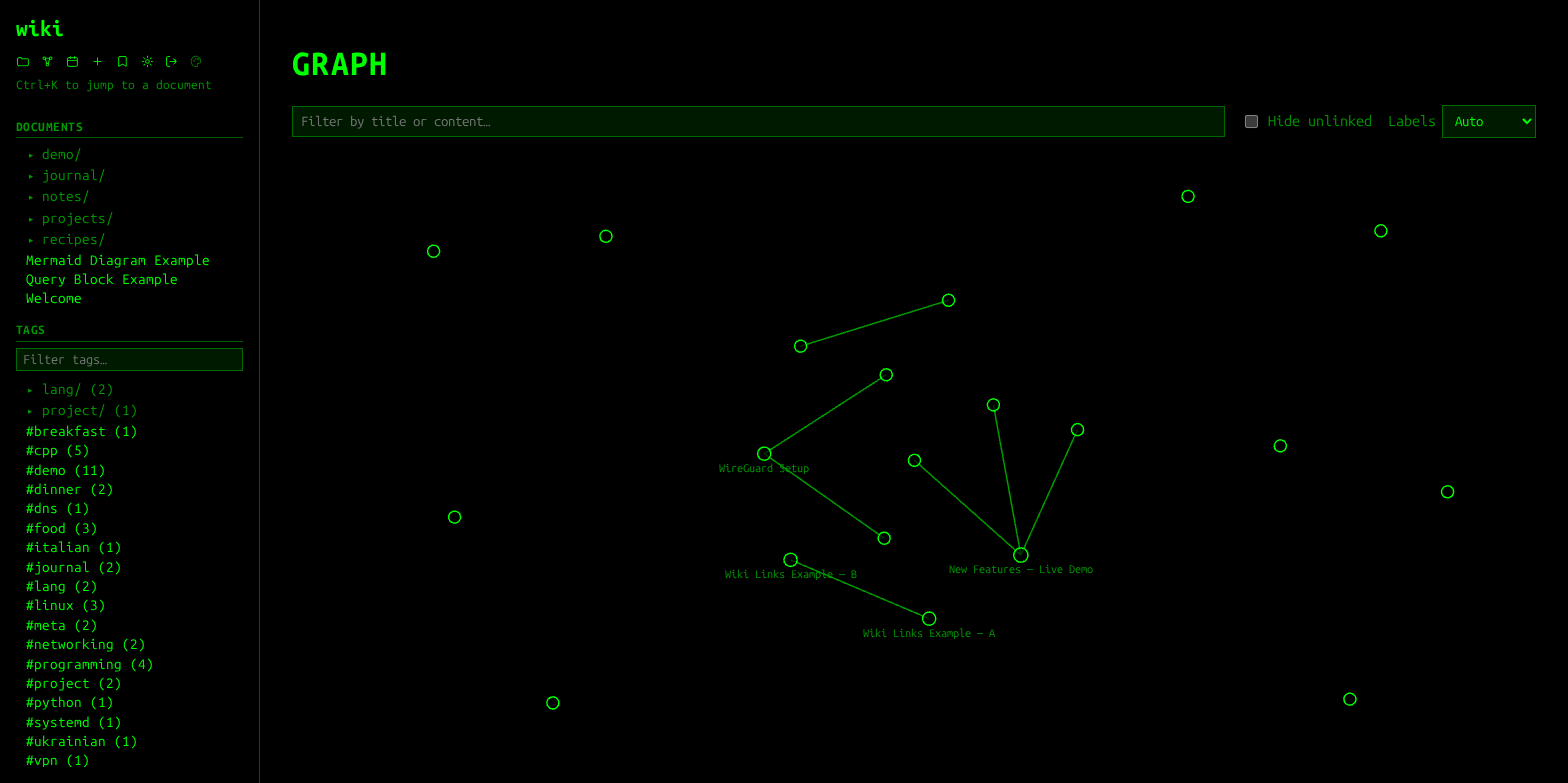
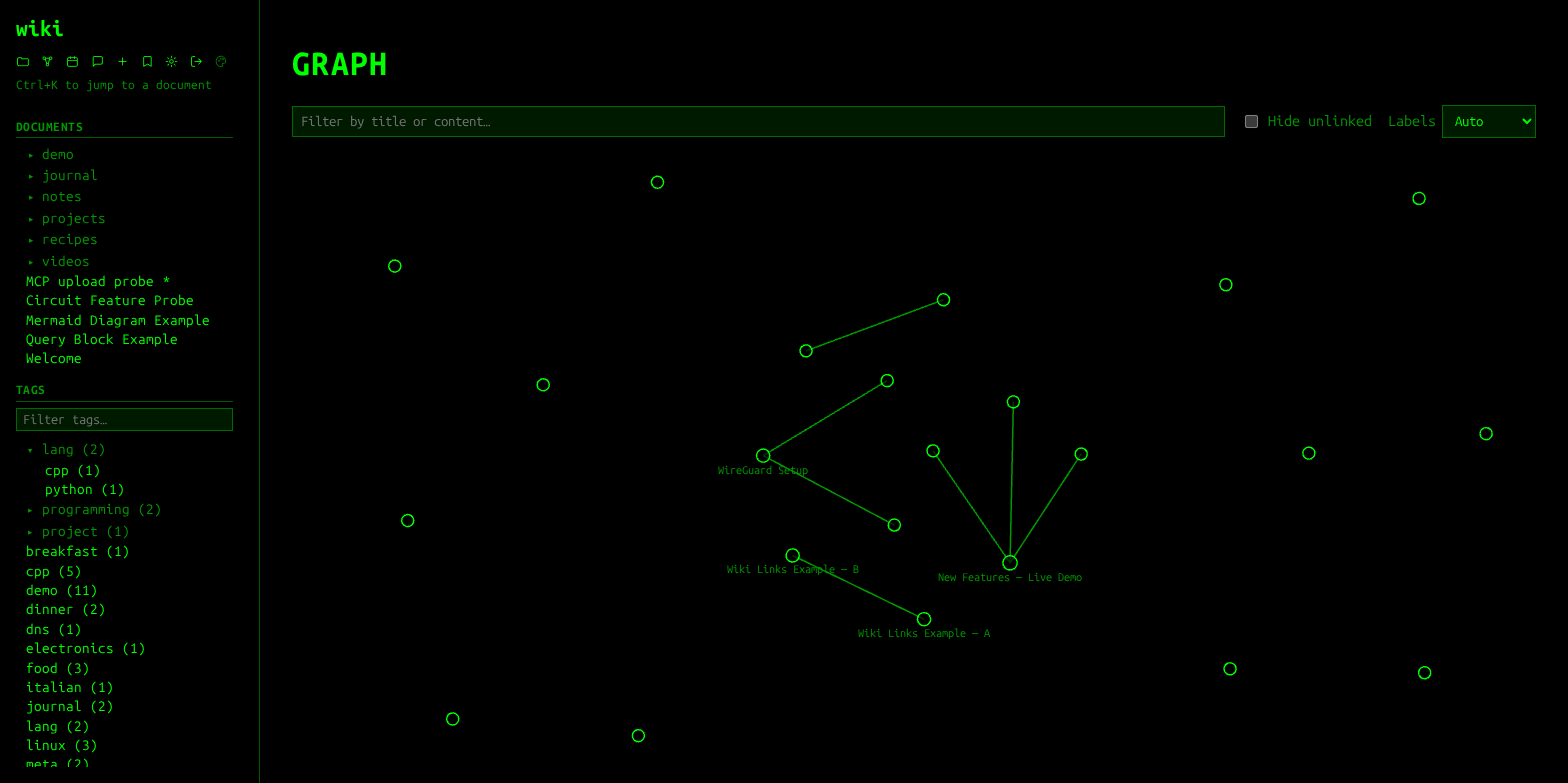
Refresh screenshots from the live test instance, add Mermaid/circuit rows
Replaces all eleven README screenshots with current ones (tabbed Account
page, slash/hash-free sidebar) and adds two new ones for the Mermaid
diagram and CircuitJS1 simulator features, previously undocumented or
text-only. The Remote MCP tab's new client-connect examples show a
placeholder host in the screenshot instead of the real deployment
target.

diff --git a/README.md b/README.md
@@ -27,6 +27,7 @@ Raspberry Pi or similar ARM/x86_64 single-board computer.
 | ![Search](docs/screenshots/search.png) **Full-text search** — FTS5 with prefix matching, `bm25()` ranking, tag/type filters | ![Editor](docs/screenshots/editor.png) **WYSIWYG editor** — Toast UI Editor, undo/redo, syntax-highlighted code blocks |
 | ![Graph view](docs/screenshots/graph.png) **Graph view** — every `[[wiki-link]]` as an edge, force-directed layout, filter by title/content | ![Account page](docs/screenshots/account-mcp.png) **Admin panel** — one-click vault backup, remote MCP with a bearer token and IP allowlist |
 | ![Calendar](docs/screenshots/calendar.png) **Calendar** — admin-only month/week/day view of every document's due date, recurring events included | ![Calendar event picker](docs/screenshots/calendar-picker.png) **Custom date/time/recurrence picker** — no native `<input type="date">`, every control themeable |
+| ![Mermaid diagram](docs/screenshots/mermaid-diagram.png) **Mermaid diagrams** — ` ```mermaid ` fenced code blocks render as real flowcharts/sequence diagrams, in the active theme's own colors | ![Circuit simulator](docs/screenshots/circuit-sim.png) **Circuit simulator** — ` ```circuit ` fenced code blocks embed a live, running CircuitJS1 simulation |
 
 ### Themes
 
@@ -80,6 +81,10 @@ not refactoring three.
 - ` ```mermaid ` code blocks render as real diagrams (flowcharts, sequence
   diagrams, anything [mermaid](https://mermaid.js.org/) supports), rendered
   client-side and loaded only on documents that actually use one.
+- ` ```circuit ` code blocks embed a live, running
+  [CircuitJS1](https://github.com/pfalstad/circuitjs1) simulation
+  (view-only, not editable from the page), loaded the same lazy,
+  same-origin way as the mermaid blocks above.
 - Syntax-highlighted code blocks on every document view (Prism.js, loaded
   lazily, themed to match the active site theme).
 
